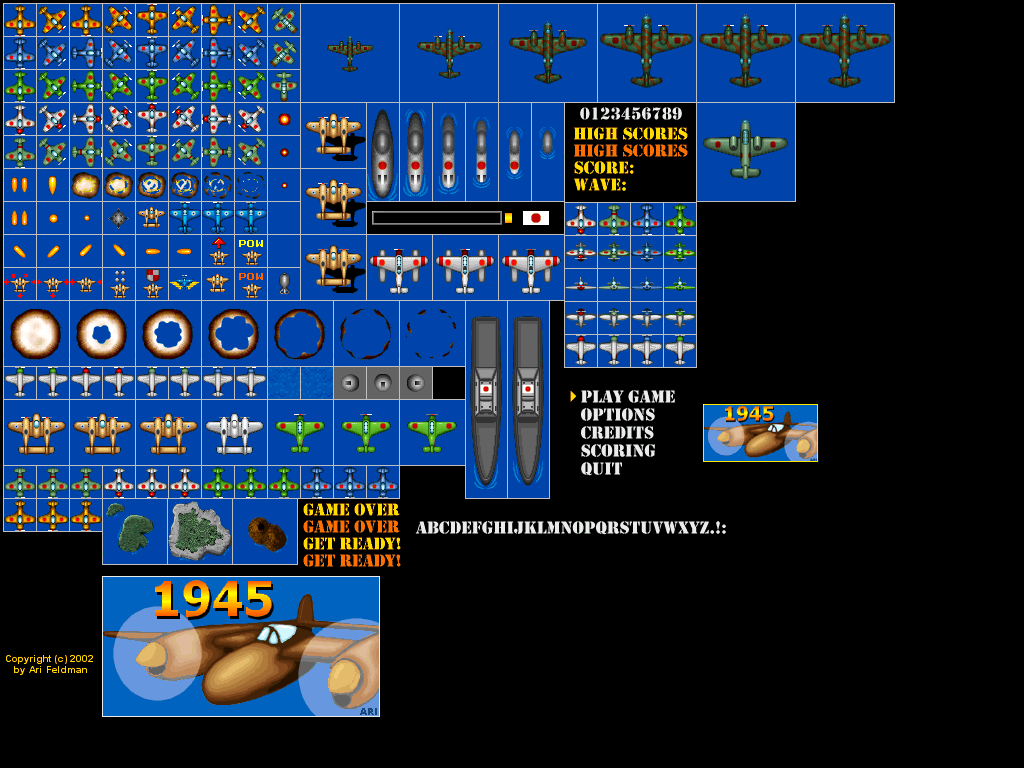
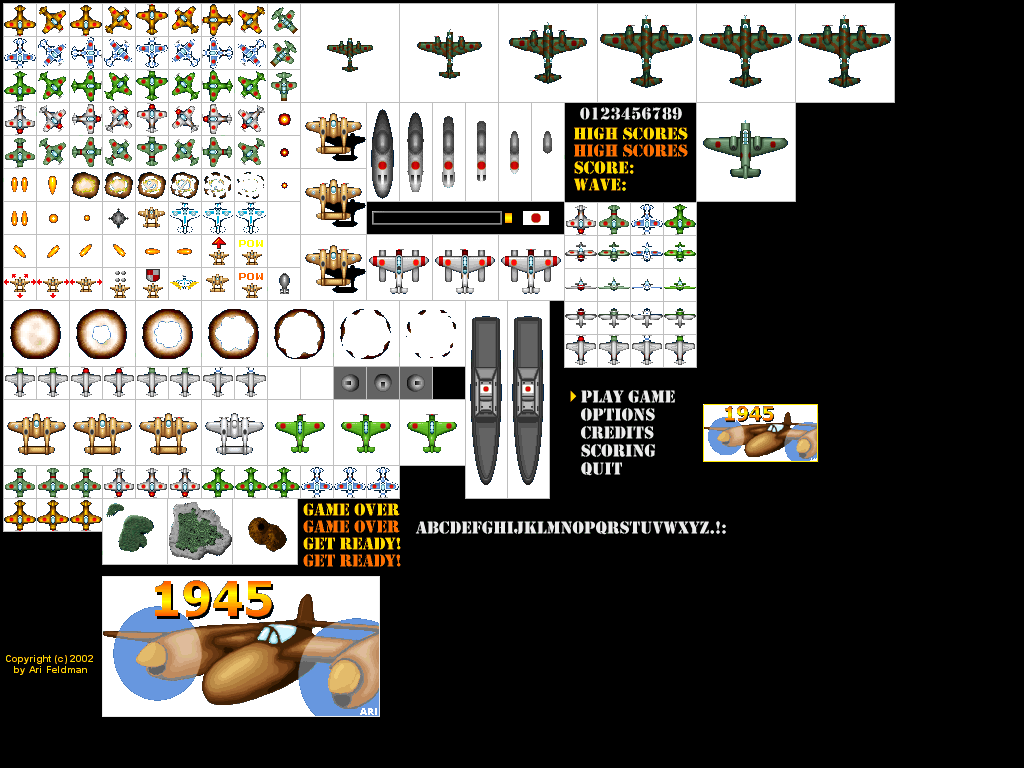
change boom effect and airplanes.

diff --git a/typing.html b/typing.html
@@ -6,7 +6,7 @@
   margin: 20px auto;
 }
 #gamecanvas{
-  background-color:#eee;
+  background-color:#333;
 }
     </style>
     <script src="animation.js"></script>
@@ -162,10 +162,13 @@ function CreateEnemy(id) {
   that.id = id;
 
   that.boom = CreateAnimation(engine.ctx);
-  that.boom.loadSrcPng("1945.png", 64, 64, [[4, 301], [70, 301], [136, 301], [202, 301], [268, 301], [334, 301], [400, 301]]);
+  that.boom.loadSrcPng("1945.png", 63, 63, [[5, 302], [71, 302], [137, 302], [203, 302], [269, 302], [335, 302], [401, 302]]);
   that.boom.onFinished(function(){
     that.hp = 0;
   });
+
+  that.fly = CreateAnimation(engine.ctx);
+  that.fly.loadSrcPng("1945.png", 63, 63, [[269, 401], [269, 401], [335, 401], [335, 401], [401, 401], [401, 401]]);
 
   that.attackedBy = function(b){
     that.hp -= b.attack;
@@ -176,28 +179,49 @@ function CreateEnemy(id) {
 
     var t = that.t;
     that.ctx.beginPath();
+
+    var lastX = that.x;
+    var lastY = that.y;
     that.x = (1-t)*(1-t)*that.startX + 2*t*(1-t)*engine.screenWidth/2 + t*t*that.destX;
     that.y = (1-t)*(1-t)*that.startY + 2*t*(1-t)*engine.screenHeight/2 + t*t*that.destY;
-    that.ctx.rect(that.x - 10, that.y - 10, 20, 20);
-    that.ctx.fillStyle = "#00dd95";
-    that.ctx.fill();
-    that.ctx.closePath();
 
-    that.ctx.font = "20px serif";
-    that.ctx.fillStyle = "#000";
-    that.ctx.fillText(id, that.x - 5, that.y+6);
+    if(that.hp > 1){
+      if(lastX != 0 || lastY != 0){
+        var angle = Math.atan((that.y - lastY) / (that.x - lastX));
+
+        if (that.y < lastY && that.x < lastX) {
+          angle += Math.PI;
+        } else if (that.y > lastY && that.x < lastX) {
+          angle -= Math.PI;
+        }
+
+        that.ctx.translate(that.x, that.y);
+        that.ctx.rotate(angle + Math.PI / 2);
+        that.ctx.translate(-that.x, -that.y);
+      }
+
+      that.fly.setPosition(that.x - 33, that.y - 33);
+      that.fly.play();
+
+      if(lastX != 0 || lastY != 0){
+        that.ctx.setTransform(1, 0, 0, 1, 0, 0);
+      }
+
+      that.ctx.font = "20px serif";
+      that.ctx.fillStyle = "#000";
+      that.ctx.fillText(id, that.x - 5, that.y+6);
+
+    } else if (that.hp == 1){
+      // show boom animation.
+      that.boom.setPosition(that.x - 33, that.y - 33);
+      that.boom.play();
+    }
 
     that.t += that.speed;
 
     if(that.t > 1) {
       that.deleted = true;
       return;
-    }
-
-    if(that.hp == 1){
-      // show boom animation.
-      that.boom.setPosition(that.x - 33, that.y - 33);
-      that.boom.play();
     }
   };
 

diff --git a/animation.js b/animation.js
@@ -69,7 +69,7 @@ function CreateAnimation(ctx){
           _frameWidth, _frameHeight,
           _x, _y, _frameWidth, _frameHeight);
 
-      return playIdx == 0;
+      return playIdx == (_framePositions.length - 1);
     }
   };
 
